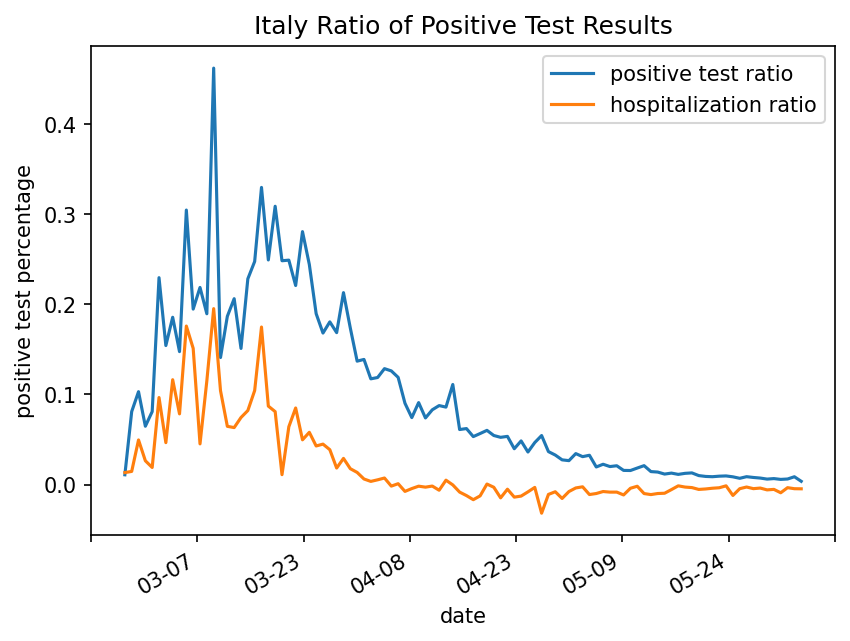
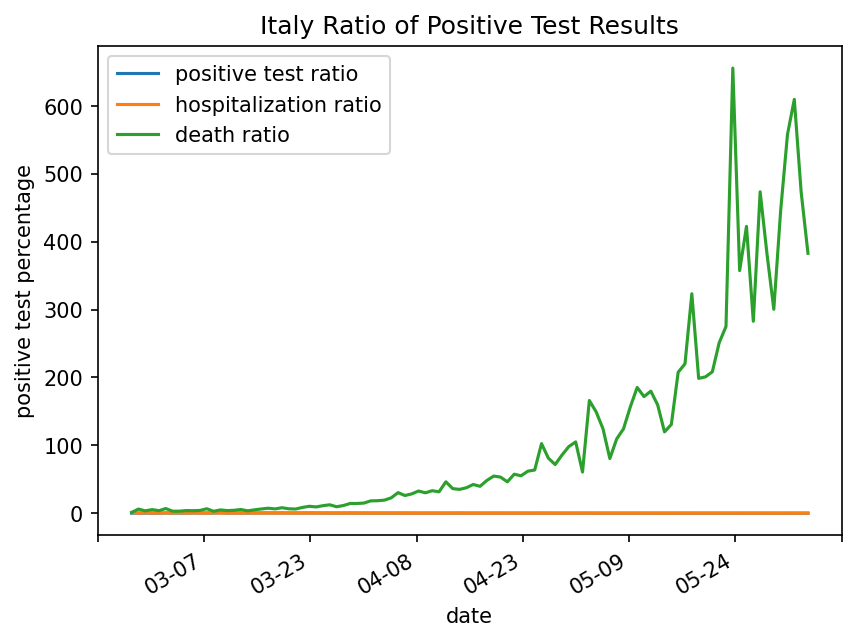
something wrong with italy

diff --git a/analyze-us.py b/analyze-us.py
@@ -283,6 +283,8 @@ top = []
 state_death_totals = {}
 for state, total_deaths in top_deaths[:split]:
     top.append(state)
+# Transfer all totals in dict
+for state, total_deaths in top_deaths:
     state_death_totals[state] = total_deaths
     
 fig, ax = plt.subplots()
@@ -309,21 +311,27 @@ plt.show()
 # Graphs overlay for one State
 
 # top[1:] excludes US total
-designated_states = ['NY', 'CA', 'IL']# new_positives.keys()
+designated_states = ['NY', 'CA', 'IL', 'FL', 'TX', 'MA']# new_positives.keys()
 
 for state in designated_states:
     fig, ax = plt.subplots()
     state_pos = []
     max_state_pos = max(new_positives[state])
     for i in range(len(new_positives[state])):
-        state_pos.append(0.001+new_positives[state][i] / 0.001+max_state_pos)        
+        new_pos_ratio = 0.0
+        if max_state_pos > 0:
+            new_pos_ratio = new_positives[state][i] / max_state_pos
+        state_pos.append(new_pos_ratio)
     ax.plot(dates[state][start:], state_pos[start:],
             label=state+' Positives: '+f'{state_test_totals[state]:,}')
 
     state_hos = []
     max_state_hos = max(new_hospitalized[state])
     for i in range(len(new_hospitalized[state])):
-        state_hos.append(0.001+new_hospitalized[state][i] / 0.001+max_state_hos)
+        new_hos_ratio = 0.0
+        if max_state_hos > 0:
+            new_hos_ratio = new_hospitalized[state][i] / max_state_hos
+        state_hos.append(new_hos_ratio)
     state_hospitalized_total = sum(new_hospitalized[state])
     ax.plot(dates[state][start:], state_hos[start:],
             label=state+' Hospitalized: '+f'{state_hospitalized_total:,}')
@@ -331,7 +339,10 @@ for state in designated_states:
     state_deaths = []
     max_state_deaths = max(new_deaths[state])
     for i in range(len(new_deaths[state])):
-        state_deaths.append(0.001+new_deaths[state][i] / 0.0001+max_state_deaths)    
+        new_death_ratio = 0.0
+        if max_state_deaths > 0:
+            new_death_ratio = new_deaths[state][i] / max_state_deaths
+        state_deaths.append(new_death_ratio)
     ax.plot(dates[state][start:], state_deaths[start:],
             label=state+' Deaths: '+f'{state_death_totals[state]:,}')
 

diff --git a/analyze-italy.py b/analyze-italy.py
@@ -60,6 +60,7 @@ hospitalized = []
 new_deaths = []
 positive_ratio = []
 hospitalized_ratio = []
+death_ratio = []
 prior = 0
 death_prior = 0
 hos_prior = 0
@@ -78,7 +79,9 @@ for date in sorted(tests_dict, key=lambda d: int(''.join(d.split('T')[0].split('
         
     hospitalized.append(hospitalized_dict[date])
     new_hospitalized.append(hospitalized_dict[date] - hos_prior)
-    hospitalized_ratio.append(new_hospitalized[-1] / test_diffs[-1])
+    hospitalized_ratio.append(new_hospitalized[-1] / hospitalized[-1])
+
+    death_ratio.append(deaths[-1] / new_deaths[-1])
 
     print(date, tests[-1] - prior)
     
@@ -112,6 +115,7 @@ fig, ax = plt.subplots()
 
 ax.plot(dates, positive_ratio, label='positive test ratio')
 ax.plot(dates, hospitalized_ratio, label='hospitalization ratio')
+ax.plot(dates, death_ratio, label='death ratio')
 
 N = 8
 xmin, xmax = ax.get_xlim()
